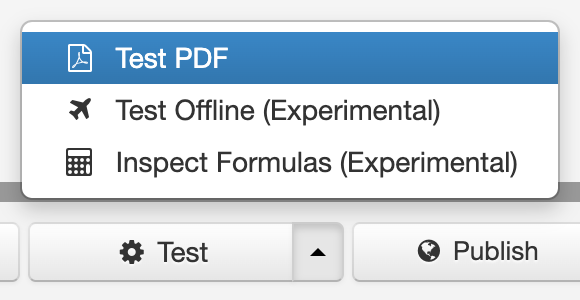
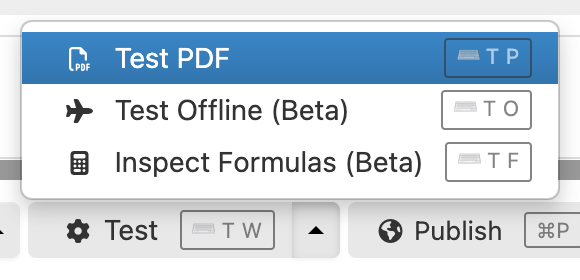
New Test screenshot, add links, add "Testing in web mode"

Changed region(s): [[0.0, 0.0571, 1.0, 0.9429]]

diff --git a/form-builder/buttons-bar.md b/form-builder/buttons-bar.md
@@ -27,17 +27,17 @@ By default, the bar includes the following buttons:
         - Export the form definition in XHTML+XForms format (the Orbeon Forms form definition format).
         - This produces a file with the same content shown by the ["Edit Source" dialog](edit-source.md).
 - __Test functions"__: 
-    - Test: open the form in test mode
-    - Test PDF: open the "Test PDF" dialog for testing PDF output
+    - [Test](web-test.md): open the form in test mode
+    - [Test PDF](pdf-test.md): open the "Test PDF" dialog for testing PDF output
         - This is an Orbeon Forms PE feature. 
-    - Test Offline: open the form in test mode, but using the "offline" (JavaScript) runtime (experimental)
+    - [Test Offline](offline-test.md): open the form in test mode, but using the "offline" (JavaScript) runtime (experimental)
         - This is an Orbeon Forms PE feature. 
-    - Formula Inspector: observe formulas and their dependencies (experimental)
+    - [Formula Inspector](formulas-inspector.md): observe formulas and their dependencies (experimental)
 - __Publish"__: 
-    - Open the "Publish" dialog to publish the form definition
-    - This automatically saves the form definition as well.
+    - Open the ["Publish" dialog](publishing.md) to publish the form definition
+    - This will automatically save the form definition if you complete publishing in the dialog.
 - __Save"__:
-    - Save, but don't publish, the form definition 
+    - Save, but don't publish, the in-progress form definition 
 
 The buttons are configurable with the `oxf.fr.detail.buttons.orbeon.builder` property. The default value is, for Orbeon Forms 2023.1 PE:
 

diff --git a/form-builder/web-test.md b/form-builder/web-test.md
@@ -1,0 +1,29 @@
+# Testing a form in web mode
+
+## How to test a form
+
+The Buttons bar includes a Test menu button. Clicking on it opens an overlay with a Preview of your form:
+
+![Form Preview overlay](images/web-test.png)
+
+Here, many of your form's functions are available, including:
+
+- entering data into fields
+- running formulas
+- showing the Wizard if it is configured
+- running actions and services
+
+You can also [test PDF production](pdf-test.md) from this overlay, using the "Test PDF" button. 
+
+The following is not available:
+
+- reading data from the database 
+- saving data
+- submitting data
+- switching to the View mode and other page navigation
+
+## See also 
+
+- [Testing PDF production](pdf-test.md)
+- [Testing the offline mode](offline-test.md)
+- [The `open-rendered-format()` action](/form-runner/advanced/buttons-and-processes/actions-form-runner.md#open-rendered-format)

diff --git a/SUMMARY.md b/SUMMARY.md
@@ -83,6 +83,7 @@
             * [Action Syntax](form-builder/actions-syntax.md)
             * [Action Syntax examples](form-builder/action-syntax-examples.md)
             * [Synchronizing repeated content](form-builder/synchronize-repeated-content.md)
+        * [Testing a form in web mode](form-builder/web-test.md)
         * [Testing PDF production](form-builder/pdf-test.md)
         * [Testing offline functionality](form-builder/offline-test.md)
         * [Email settings](form-builder/email-settings.md)

diff --git a/configuration/properties/form-builder.md b/configuration/properties/form-builder.md
@@ -65,7 +65,7 @@ In addition to controls, the toolbox has other features which you can enable or 
 
 By default, the Publish dialog proposes, upon successful publication of a form definition, shortcuts to navigate to the published form's New or Summary pages.
 
-![Publish dialog](/form-builder/images/publish-initial-after.png)
+![Publish dialog](/form-builder/images/publish-confirmation.png)
 
 This property allows specifying which of these actions are available:
 

diff --git a/form-builder/pdf-test.md b/form-builder/pdf-test.md
@@ -72,3 +72,5 @@ See also [The `open-rendered-format()` action](/form-runner/advanced/buttons-and
 - [Automatic PDF](pdf-automatic.md)
 - [PDF templates](pdf-templates.md)
 - [The `open-rendered-format()` action](/form-runner/advanced/buttons-and-processes/actions-form-runner.md#open-rendered-format)
+- [Testing in web mode](web-test.md)
+- [Testing the offline mode](offline-test.md)

diff --git a/form-builder/offline-test.md b/form-builder/offline-test.md
@@ -41,3 +41,5 @@ As of Orbeon Forms 2023.1, there are limitations, including the following:
 ## See also
 
 - [Form Runner offline embedding API](/form-runner/link-embed/offline-embedding-api.md)
+- [Testing PDF production](pdf-test.md)
+- [Testing in web mode](web-test.md)
